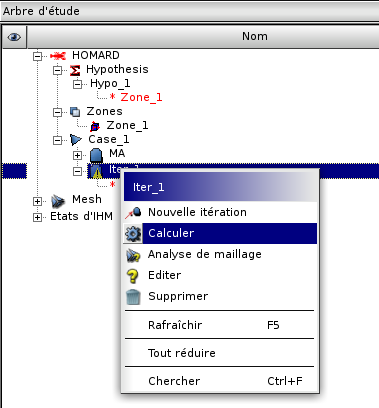
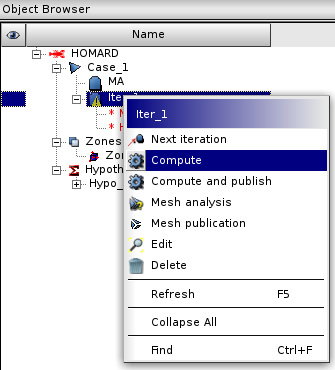
Mise à jour des figures

diff --git a/doc/en/gui_create_hypothese.rst b/doc/en/gui_create_hypothese.rst
@@ -22,7 +22,7 @@ A name of the hypothesis is automatically proposed: Hypo_1, Hypo_2, etc. This na
 
 Uniform adaptation
 ******************
-By default we propose a uniform refinement. When the starting point is a mesh which was already refined, the option of unefinement will eliminate the produced elements.
+By default we propose a uniform refinement. When the starting point is a mesh which was already refined, the option of unrefinement will eliminate the produced elements.
 
 Adaptation by a field
 *********************
@@ -51,7 +51,7 @@ For the choice of the criterion, four variants are possible:
   - Beyond an absolute value; all the elements with a value of field superior to this value will be refined.
   - Beyond an absolute value that is equal to the average of the mean of the field increased of n times its standard deviation; all the elements with a value of field superior to this value will be refined.
 
-The same convention applies to the unefinement, the by replacing upper by lower. We can inactivate one of the functions (refinement or unefinement) by checking the button ad_hoc.
+The same convention applies to the unrefinement, the by replacing upper by lower. We can inactivate one of the functions (refinement or unrefinement) by checking the button ad_hoc.
 
 .. image:: images/create_hypothese_ch_3.png
    :align: center
@@ -113,7 +113,7 @@ If the compartment is checked, we shall define the advanced options.
 
 A first series of options concern the maximal sharpness of mesh which we do not want to exceed. Two directives are possible, separately or together. We can impose a size of minimal element: a element the diameter of which is lower than this limit will not be any more split. By default, we propose a minimal 0 diameter, what means imposing nothing. We can impose a level of maximal refinement. By default, the maximum is 99, what amounts generally to impose nothing.
 
-The second series of options has interest only in case the adaptation is driven by a field and in case this field is not defined everywhere in the mesh. It arrives for example when we build a field based on a distance in a plan while the domain is 3D: the field will not be defined on nodes outside the plan. For such fields, this option allows to specify the behavior which we wish in the regions where the field is not defined. By default, there is nothing: elements are kept as they are. We can choose two other variants: to refine all the elements will a priori be cut, or to unrefine all the elements will be candidate in the unefinement.
+The second series of options has interest only in case the adaptation is driven by a field and in case this field is not defined everywhere in the mesh. It arrives for example when we build a field based on a distance in a plan while the domain is 3D: the field will not be defined on nodes outside the plan. For such fields, this option allows to specify the behavior which we wish in the regions where the field is not defined. By default, there is nothing: elements are kept as they are. We can choose two other variants: to refine all the elements will a priori be cut, or to unrefine all the elements will be candidate in the unrefinement.
 
 The last choice concerns an additional output of the adaptation. By default, nothing is checked and no field is produced. If at least one compartment is checked, the output file MED will contain some extra fields. The first choice represents the level of refinement of every element. The convention is the one of HOMARD: an element of the initial mesh is of level 0, an element produced by the refinement of an initial element carries the level 1, etc. The elements of transition which are produced between two different levels, n and n+1, are affected by the half-level n+0,5. The second choice is for the quality of the elements. The third choice is for the diameters of the elements.
 

diff --git a/doc/en/gui_homard.rst b/doc/en/gui_homard.rst
@@ -4,10 +4,11 @@ The computation
 ###############
 .. index:: single: iteration
 .. index:: single: computation
+.. index:: single: SMESH
 
 To compute an iteration
 ***********************
-To launch an adaptation obtains by selecting the iteration to calculate. It is identified by an icone "wait". We choose then "*Compute*" in the menu HOMARD or with the mouse.
+To launch an adaptation obtains by selecting the iteration to calculate. It is identified by an icone "wait". We choose then "*Compute*" or "*Compute and publish*" in the menu HOMARD or with the mouse. In the first case, the adaptation is done and the MED files are written down. In the second case, the new mesh will be published into SMESH. Note that if the choice "*Compute*" was used, the new mesh can be published afterwards, using the choice "*Publish*".
 
 .. image:: images/lancement_1.png
    :align: center
@@ -25,7 +26,7 @@ At the end of this calculation, the object browser was enriched. The icone in fr
 
 The first two files are text files, editable. Liste.n.vers.(n+1).log contains information on the progress of the adaptation: summary of the mode of adaptation, percentage of concerned elements, etc. The file apad.n.vers.(n+1).bilan is a summary of the characteristics of the obtained mesh.
 
-The file maill.(n+1).med is the one which contains the mesh produced in the format MED. We find this mesh in the section of the object browser of the module SMESH. It is then visible in this module and usable then as quite different mesh.
+The file maill.(n+1).med is the one which contains the mesh produced in the format MED. If the publication was selected, we find this mesh in the section of the object browser of the module SMESH. It is then visible in this module and usable then as quite different mesh.
 
 
 .. image:: images/lancement_2.png

diff --git a/doc/en/tutorials.rst b/doc/en/tutorials.rst
@@ -69,7 +69,7 @@ Refinement driven by a field
 ****************************
 .. index:: single: field
 
-One proceeds here to refinement according to a field. The hypotheses are used to define the name of the field and the thresholds of refinement/unefinement. The input of the file and the instants is made in the iteration. Fields on the nodes or the elements are interpolated.
+One proceeds here to refinement according to a field. The hypotheses are used to define the name of the field and the thresholds of refinement/unrefinement. The input of the file and the instants is made in the iteration. Fields on the nodes or the elements are interpolated.
 To adapt the H_1 mesh resulting from the Iter_1 iteration, two alternatives are applied. In the first, Iter_2, the field is a scalar field of indicators of error and one cuts out the 1.5% of elements where the error is largest. In the second alternative, Iter_2_bis, one is based on a vector field and one examines the jump of this vector between an element and its neighbors: one will cut out where the infinite standard of this jump is higher than the absolute threshold of 0.0001.
 
 .. literalinclude:: ../files/tutorial_3.py
